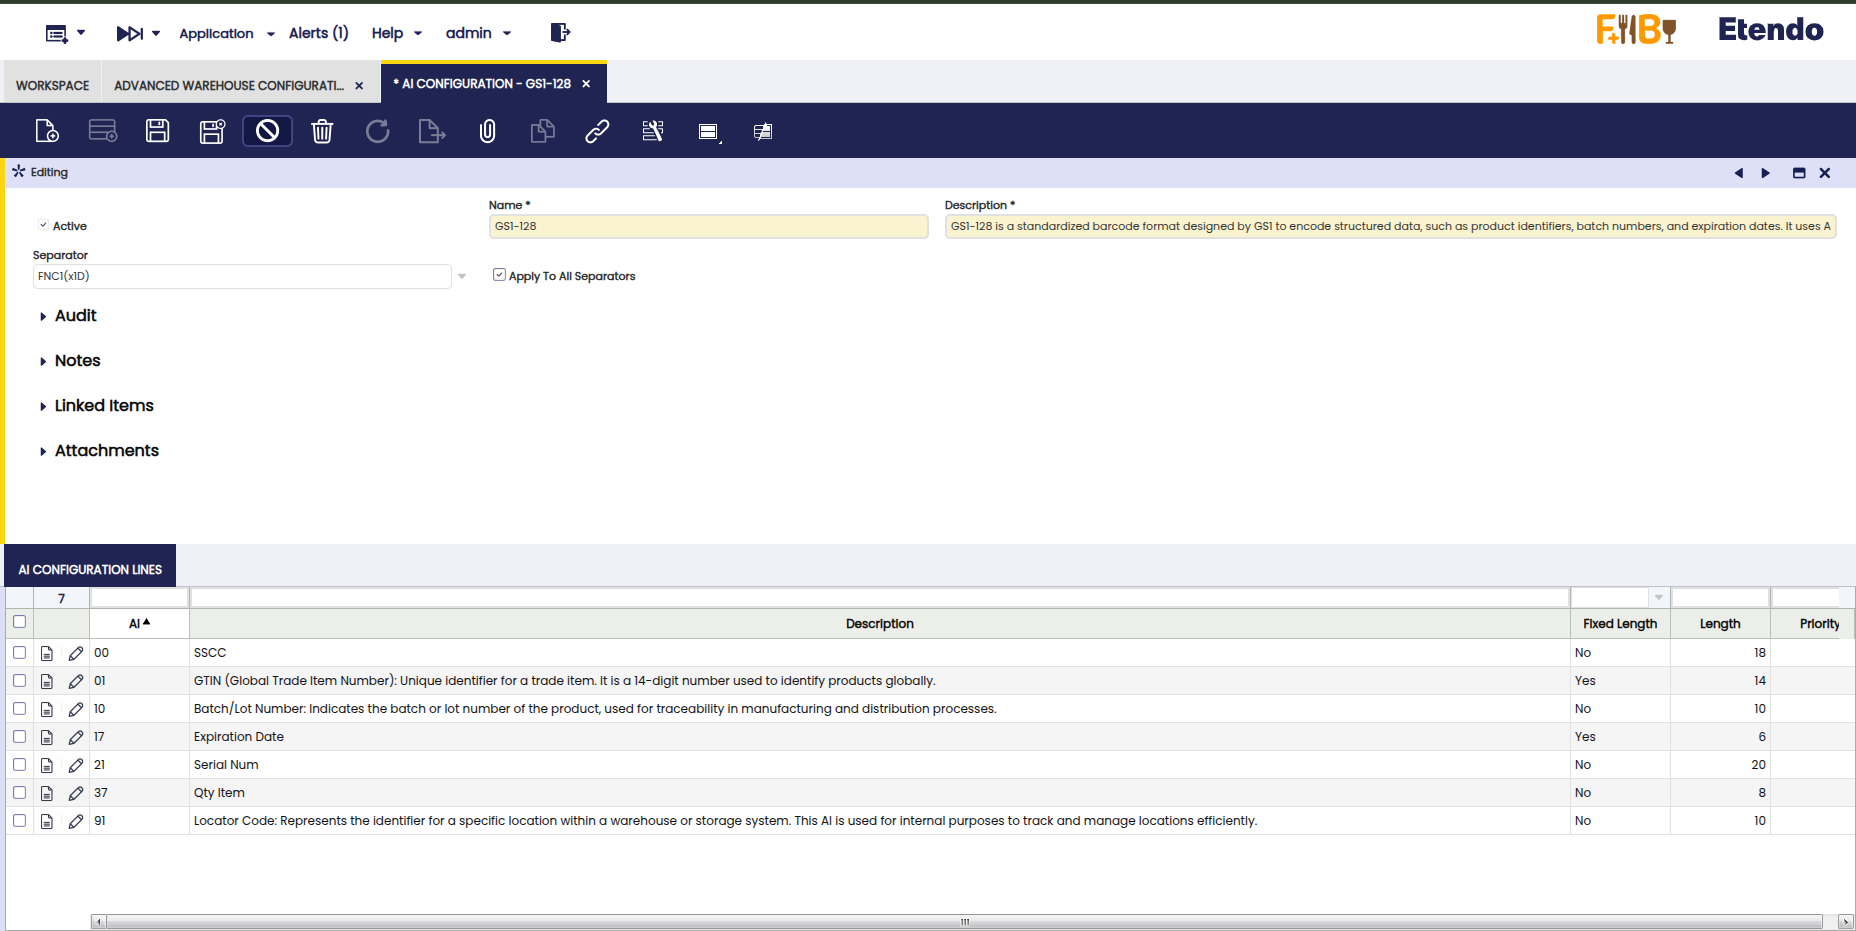
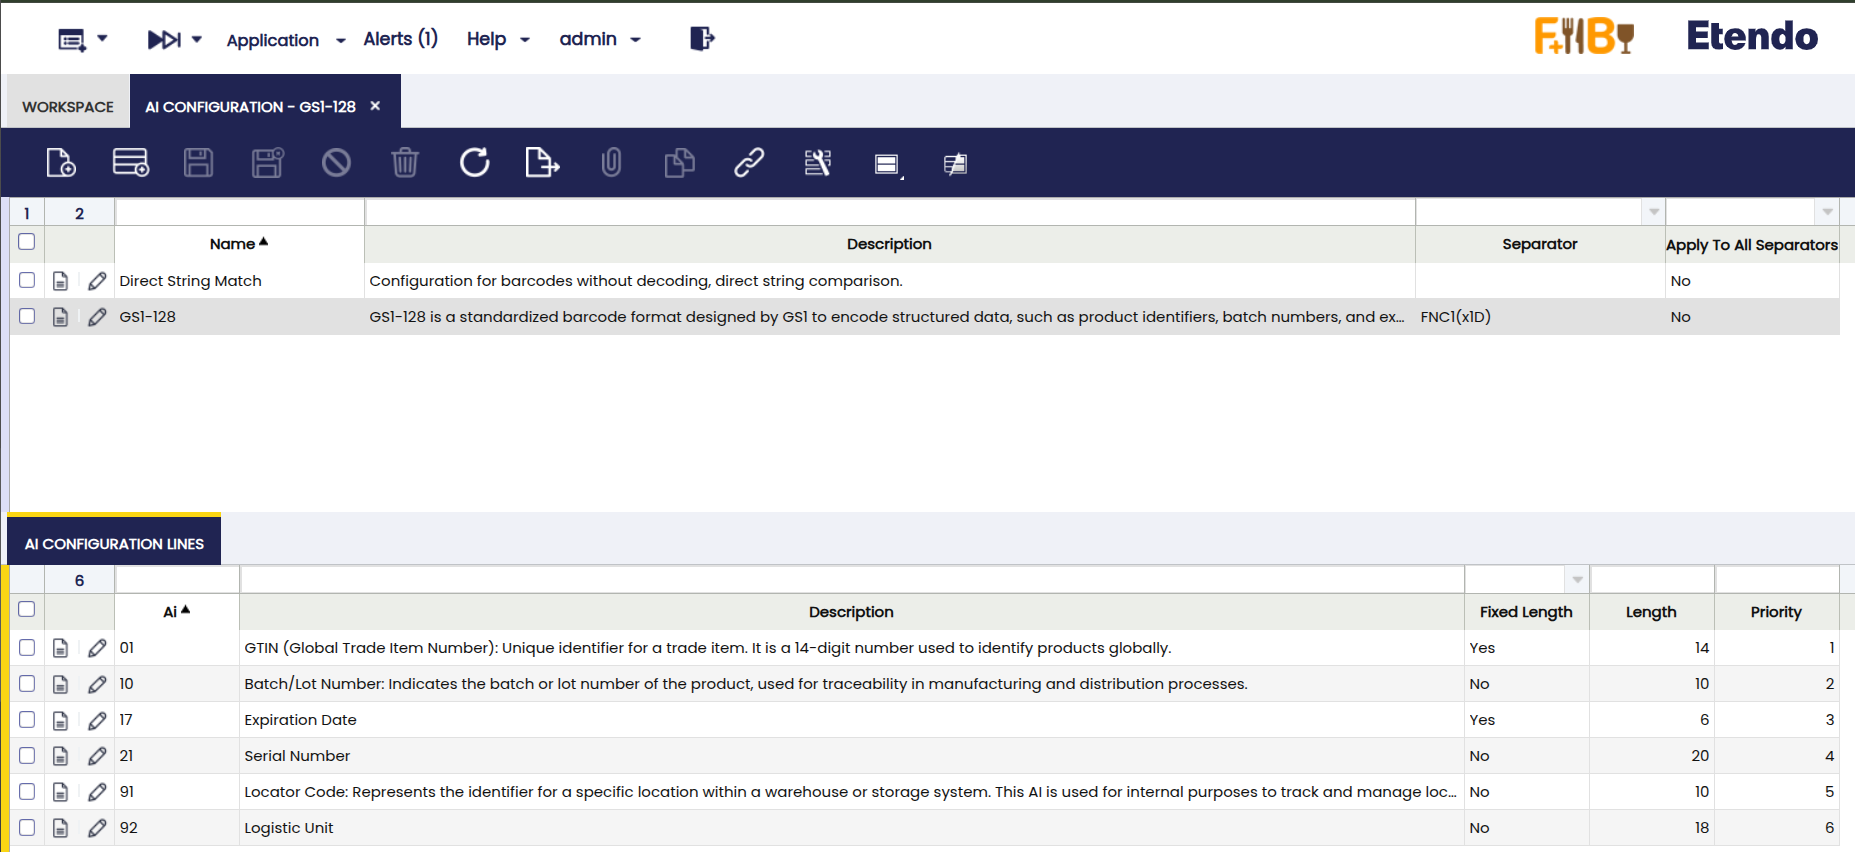
Feature ETP-2046: Add new image and update documentation

diff --git a/docs/user-guide/etendo-classic/optional-features/bundles/warehouse-extensions/advanced-warehouse-management.md b/docs/user-guide/etendo-classic/optional-features/bundles/warehouse-extensions/advanced-warehouse-management.md
@@ -87,6 +87,8 @@ To start using this module correctly, the following installation and configurati
 
             - Inactive: The system only validates the product, without requiring a strict match in attributes or locator.
 
+![](../../../../../assets/user-guide/etendo-classic/optional-features/bundles/warehouse-extensions/exact-attribute-1.png)
+
 6. **AI Configuration** Window    
 
 This window is part of the advanced barcode settings in the Etendo system and is used to manage and configure different types of barcodes. It allows the system to read and associate scanned codes with products and their relevant information.
@@ -110,13 +112,12 @@ This section covers two main methods for code recognition:
                         
     It configuration allows for the recognition of different Application Identifiers (AI) used in warehouse processes. Some common examples are:
                 
-    - **(92)**: Container Code: uniquely identifies a logistics unit (pallet, box).
     - **(01)**: GTIN (Global Trade Item Number): globally identifies a commercial product using a 14-digit code.
     - **(10)**: Batch/Lot Number: batch number to ensure traceability in manufacturing and distribution processes.
     - **(17)**: Expiration Date: product expiration date (YYMMDD).
     - **(21)**: Serial Number: uanique serial number of an item.
     - **(91)**: Locator Code: identifies the specific location within the warehouse.
-    - **(37)**: Quantity of items: indicates the quantity contained in the logistics unit.
+    - **(92)**: Logistics unit (pallet, box).
 
     Thanks to this configuration, when scanning a GS1-128 barcode, it interprets the relevant information and applies it to the process in progress (receiving, picking, packing). For example, when reading an SSCC (00), it associates it with an AUOM (box or pallet) and so on with the other identifiers.
 
@@ -300,20 +301,19 @@ In packing, the same validation is used when packaging products. The system reco
 In this way, the system ensures that a single scan comprehensively recognizes the product that is leaving or will leave, taking into account its alternative measurements and attributes, and avoiding errors throughout the chain from order to dispatch.
 
 !!! Example
-    Example of barcode with attributes: Identifier + Product Code + Identifier + Batch Number + Identifier + Expiration Date = 01BX10002410L021170220303712 
+    Example of barcode with attributes: **01** 95012345678930 **\x1D** **10**L101 **\x1D** **17** 260910 **91** Rn-0-0-0
 
     where:
 
-    - 92 = logistic unit identifier
-    - BX100024 = logistic unit code
+    - \x1D = separator for variable values
     - 01 = product identifier
-    - 12345678912345 = product code
+    - 95012345678930 = id product
     - 10 = lot identifier
-    - L021 = lot
+    - L101 = lot
     - 17 = expiration identifier
-    - 260710 = expiration date (YYMMDD)
-    - 37 = quantity identifier
-    - 12 = quantity
+    - 260910 = expiration date (YYMMDD)
+    - 91 = locator identifier
+    - Rn-0-0-0 = logistic unit code
 
 ### Inbound Receipt Window  
 
@@ -330,7 +330,7 @@ The window supports the simultaneous management of multiple orders, even from di
 
 When a receipt includes a product line with an AUOM configured as Pallet or Box, and is processed from the Inbound Receipt window, the system recognizes this condition and executes a process that generates a Referenced Inventory (RI) record associated with the corresponding line. This RI represents the physical logistics unit (pallet or box) and is linked to the receipt data, ensuring complete traceability of the contents.
 
-The automatic creation of RI depends on the “Generate logistics unit automatically” preference being enabled. Also, if the “Enable UOM Management” preference is not set to ‘Y’, the user will not be able to manage AUOM from the Product window, and therefore will not be able to define equivalencies for pallets and boxes, which is a prerequisite for this functionality to work correctly.
+The automatic creation of RI depends on the **Generate logistics unit automatically** preference being enabled. Also, if the **Enable UOM Management** preference is not set to ‘Y’, the user will not be able to manage AUOM from the Product window, and therefore will not be able to define equivalencies for pallets and boxes, which is a prerequisite for this functionality to work correctly.
 
 ![](../../../../../assets/user-guide/etendo-classic/optional-features/bundles/warehouse-extensions/inbound-receipt/inbound-receipt-window-1.png)
 
